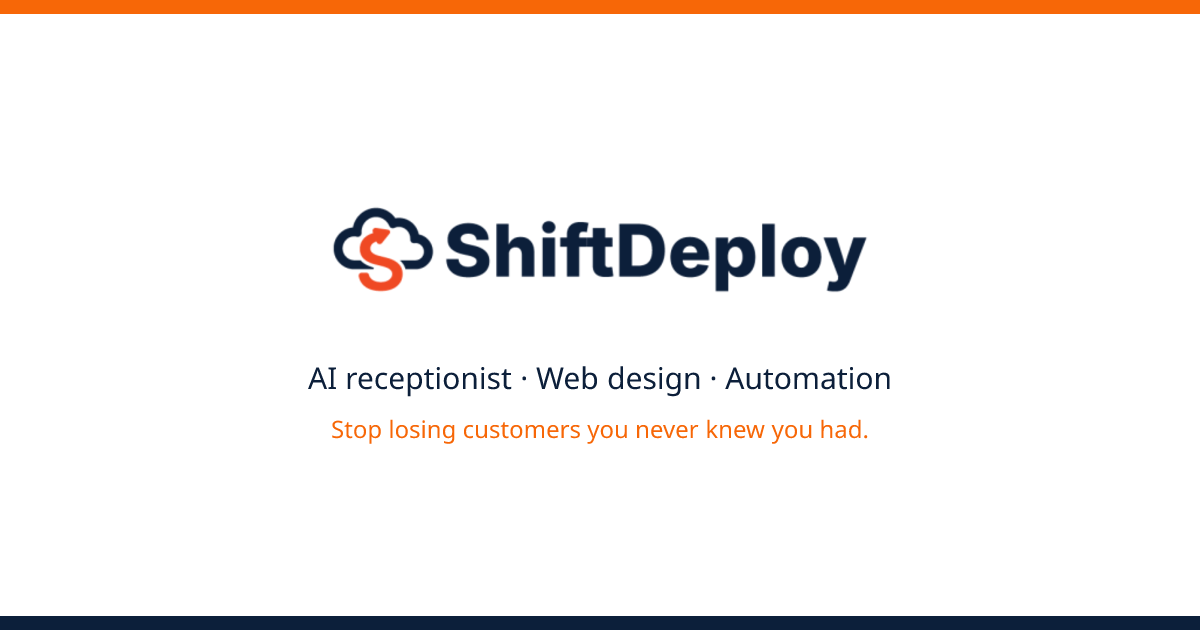
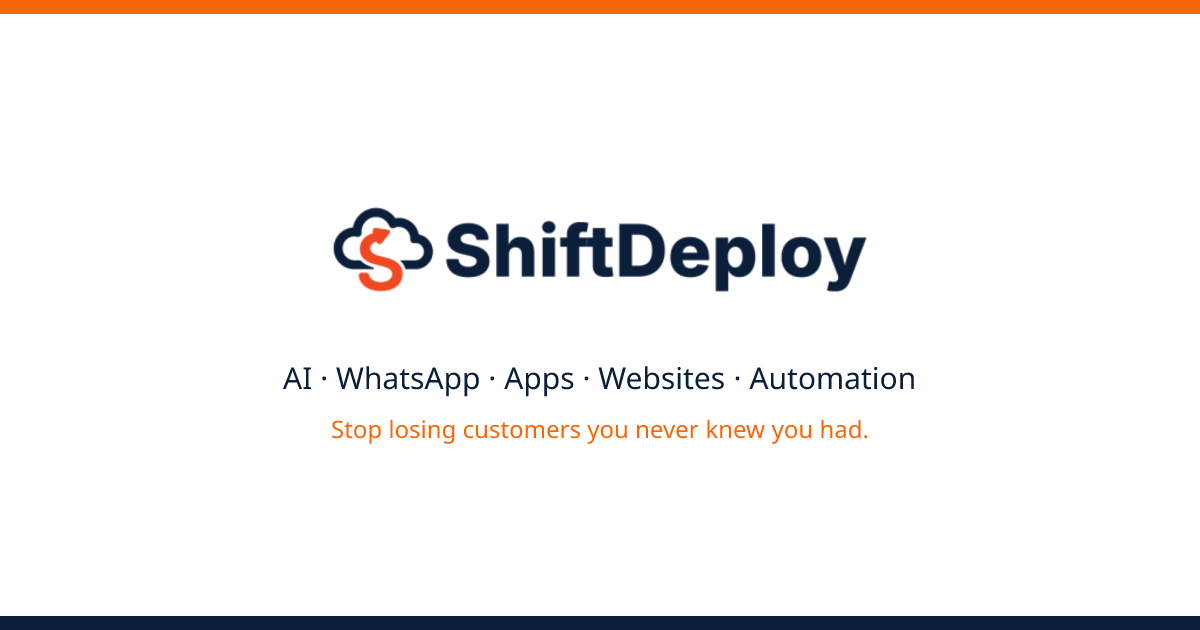
Lead with problems not tools, add WhatsApp and apps, and a visible FAQ
Hero copy now talks only about the pain and the result. Services add
WhatsApp automation and mobile apps. A 14-question FAQ answers what UK
owners ask, stays fully visible and ships FAQPage schema. Small orange
labels now meet WCAG AA contrast, and CTAs to the same page share a name.

Changed region(s): [[0.2467, 0.573, 0.7708, 0.6333]]

diff --git a/src/Pages/LandingPage/landingComps/HomeFaq.jsx b/src/Pages/LandingPage/landingComps/HomeFaq.jsx
@@ -1,0 +1,103 @@
+import JsonLd from '../../../components/JsonLd';
+
+// Kept fully visible (no accordion) so search engines and AI assistants can read every answer.
+const faqs = [
+  {
+    q: 'What is an AI receptionist, and how does it work?',
+    a: 'An AI receptionist is a virtual receptionist that answers your business phone for you. It picks up every call, day or night, answers common questions, takes the caller’s details and books appointments, then sends you a text so you know what came in.',
+  },
+  {
+    q: 'Will my callers know they’re speaking to an AI?',
+    a: 'Yes, and they should. We set it up to say briefly that the caller is speaking to your assistant and that the call may be recorded. It speaks naturally and politely, and anything it can’t handle is passed to you as a message.',
+  },
+  {
+    q: 'Can I keep my existing business phone number?',
+    a: 'Yes. You keep your number. Calls you can’t answer are forwarded to the AI receptionist, so customers ring the same number they always have.',
+  },
+  {
+    q: 'Is an AI receptionist cheaper than a telephone answering service or a receptionist?',
+    a: 'Usually, yes. A full-time receptionist in the UK typically costs around £2,000 to £2,500 a month once National Insurance and pension are included. An AI receptionist costs a fraction of that and never takes a day off. We’ll give you an exact price in your quote.',
+  },
+  {
+    q: 'Is it UK GDPR compliant?',
+    a: 'We set everything up with UK GDPR in mind. Callers are told the call may be recorded, we only collect the details needed to help them, and we agree with you how long information is kept and how requests to delete it are handled.',
+  },
+  {
+    q: 'Can it book appointments straight into my diary?',
+    a: 'Yes. Bookings are added to your diary automatically and you get a text straight away. There’s nothing to write down or chase later.',
+  },
+  {
+    q: 'Can you automate WhatsApp messages for my business?',
+    a: 'Yes. We set up WhatsApp for your business so customers get instant replies, can book or ask questions at any hour, and receive appointment reminders automatically. Many of your customers already prefer WhatsApp to calling.',
+  },
+  {
+    q: 'Why isn’t my website getting enquiries?',
+    a: 'It’s usually one of three things: it loads slowly on a phone, people can’t find you on Google, or it isn’t clear what to do next. Our free website audit checks all three and tells you, in plain English, what to fix first.',
+  },
+  {
+    q: 'Do I need a new website, or can you fix the one I have?',
+    a: 'Often you don’t need a new one. Many websites only need to load faster, explain things more clearly and make it easier to call or book. If a rebuild really is the better option, we’ll tell you why.',
+  },
+  {
+    q: 'How can I get more Google reviews for my business?',
+    a: 'Ask at the right moment and make it quick. A QR code at your front desk lets happy customers leave a Google review in two taps, and anyone unhappy can tell you privately so you can put it right first.',
+  },
+  {
+    q: 'How much does it cost to work with ShiftDeploy?',
+    a: 'It depends on what fixes your problem, so every project starts with a free check. You then get a clear, fixed quote before any work begins. Review Your Doctor, our review software for clinics, starts from £49 a month.',
+  },
+  {
+    q: 'How long does it take?',
+    a: 'Simpler fixes, like call answering or WhatsApp replies, can often be live within days. A new website or app takes longer. You’ll get a clear timeline with your quote, before anything starts.',
+  },
+  {
+    q: 'Do you work with businesses across the UK?',
+    a: 'Yes. We work remotely with service businesses across the UK, from trades and clinics to salons and local firms, so it doesn’t matter where you’re based.',
+  },
+  {
+    q: 'What happens after the free check?',
+    a: 'We send you a plain-English summary of where you’re losing customers and the simplest way to fix it. There’s no obligation, and if we can’t help, we’ll say so.',
+  },
+];
+
+const faqSchema = {
+  '@context': 'https://schema.org',
+  '@type': 'FAQPage',
+  mainEntity: faqs.map(({ q, a }) => ({
+    '@type': 'Question',
+    name: q,
+    acceptedAnswer: { '@type': 'Answer', text: a },
+  })),
+};
+
+export default function HomeFaq() {
+  return (
+    <section id="faq" className="w-full bg-white py-16 sm:py-24 scroll-mt-20">
+      <JsonLd data={faqSchema} />
+      <div className="max-w-7xl 2xl:max-w-[80%] mx-auto px-4 sm:px-6 lg:px-8">
+        <div className="max-w-4xl mx-auto text-center mb-12 sm:mb-16">
+          <p className="text-sm sm:text-base font-semibold text-orange-700 mb-4">Questions we get asked</p>
+          <h2 className="text-3xl sm:text-5xl font-bold leading-[1.1] text-primaryBlue text-balance">
+            Straight answers.
+            <span className="block text-primaryOrange">No sales talk.</span>
+          </h2>
+          <p className="text-lg sm:text-xl mt-6 leading-relaxed text-gray-700">
+            What business owners ask us most about call answering, WhatsApp, websites and
+            reviews.
+          </p>
+        </div>
+
+        <dl className="grid gap-6 md:grid-cols-2">
+          {faqs.map(({ q, a }) => (
+            <div key={q} className="rounded-2xl border border-gray-200 bg-gray-50 p-6 sm:p-8">
+              <dt>
+                <h3 className="text-lg sm:text-xl font-bold text-primaryBlue">{q}</h3>
+              </dt>
+              <dd className="mt-3 text-gray-700 sm:text-lg leading-relaxed">{a}</dd>
+            </div>
+          ))}
+        </dl>
+      </div>
+    </section>
+  );
+}

diff --git a/src/Pages/LandingPage/landingComps/ShiftProtocol.jsx b/src/Pages/LandingPage/landingComps/ShiftProtocol.jsx
@@ -4,11 +4,11 @@ import Link from 'next/link';
 const steps = [
   {
     title: 'Free check',
-    body: 'Tell us about your business. We look at your calls, website and admin to find where work is slipping away.',
+    body: 'Tell us about your business. We look at your calls, messages, website and admin to find where work is slipping away.',
   },
   {
     title: 'A clear plan and quote',
-    body: 'You get a plain-English plan: what to fix first, what can wait, and what it costs. No pressure.',
+    body: 'The simplest fix for your problem, whether that’s AI, WhatsApp, an app or a website, with a clear price. No pressure.',
   },
   {
     title: 'We fix it',
@@ -22,23 +22,23 @@ const steps = [
 
 const ShiftProtocol = () => {
   return (
-    <section id="the-shift-protocol" className="bg-white scroll-mt-20">
+    <section id="the-shift-protocol" className="bg-gray-50 scroll-mt-20">
       <div className="max-w-7xl 2xl:max-w-[80%] mx-auto px-4 sm:px-6 lg:px-8 py-16 sm:py-24">
         <div className="max-w-4xl mx-auto text-center mb-12 sm:mb-16">
-          <p className="text-sm sm:text-base font-semibold text-primaryOrange mb-4">How it works</p>
+          <p className="text-sm sm:text-base font-semibold text-orange-700 mb-4">How it works</p>
           <h2 className="text-3xl sm:text-5xl font-bold leading-[1.1] text-primaryBlue text-balance">
             Four simple steps.
             <span className="block text-primaryOrange">No jargon, no surprises.</span>
           </h2>
           <p className="text-lg sm:text-xl mt-6 leading-relaxed text-gray-700">
-            Whether it’s AI call answering, a new website or business automation, every
-            project starts the same way.
+            Whether the answer is AI, WhatsApp, an app or a website, every project starts
+            the same way: with your problem.
           </p>
         </div>
 
         <ol className="grid gap-6 sm:grid-cols-2 lg:grid-cols-4">
           {steps.map(({ title, body }, i) => (
-            <li key={title} className="rounded-2xl border border-gray-200 bg-gray-50 p-6 sm:p-8">
+            <li key={title} className="rounded-2xl border border-gray-200 bg-white p-6 sm:p-8">
               <span className="flex size-10 items-center justify-center rounded-full bg-primaryBlue text-white font-bold">
                 {i + 1}
               </span>
@@ -52,7 +52,7 @@ const ShiftProtocol = () => {
       <div className="bg-primaryBlue text-white px-4 py-14 sm:py-20 text-center">
         <h2 className="text-3xl sm:text-4xl font-bold text-balance">Ready to stop losing work?</h2>
         <p className="mt-4 text-lg sm:text-xl text-white/85 max-w-2xl mx-auto">
-          Get a free check of your calls, website and admin. We’ll show you where the
+          Get a free check of your calls, messages, website and admin. We’ll show you where the
           biggest leaks are and the simplest way to fix them.
         </p>
         <div className="mt-8 flex flex-col sm:flex-row justify-center gap-3 sm:gap-4">

diff --git a/src/Pages/LandingPage/landingComps/InsideShiftDeploy.jsx b/src/Pages/LandingPage/landingComps/InsideShiftDeploy.jsx
@@ -1,5 +1,5 @@
 import Link from 'next/link';
-import { ArrowRight, PhoneCall, LayoutTemplate, Gauge, MousePointerClick, ShieldCheck, Workflow } from 'lucide-react';
+import { ArrowRight, PhoneCall, MessageCircle, Smartphone, LayoutTemplate, Gauge, MousePointerClick, ShieldCheck, Workflow } from 'lucide-react';
 
 const services = [
   {
@@ -7,6 +7,20 @@ const services = [
     title: 'AI receptionist & call answering',
     body: 'A virtual receptionist that answers every call and books it in, even when you’re closed.',
     href: '/digital-receptionist',
+  },
+  {
+    icon: MessageCircle,
+    title: 'WhatsApp & chat automation',
+    body: 'Instant replies, bookings and reminders on WhatsApp, where your customers already are.',
+    href: '/ContactUs',
+    cta: 'Ask us about it',
+  },
+  {
+    icon: Smartphone,
+    title: 'Mobile & web apps',
+    body: 'Booking, ordering or customer apps built around how your business actually runs.',
+    href: '/ContactUs',
+    cta: 'Ask us about it',
   },
   {
     icon: LayoutTemplate,
@@ -46,18 +60,18 @@ const InsideShiftDeploy = () => {
     <section id="inside-shiftdeploy" className="py-16 sm:py-24 text-textColor bg-white scroll-mt-20">
       <div className="max-w-7xl 2xl:max-w-[80%] mx-auto px-4 sm:px-6 lg:px-8">
         <div className="max-w-4xl mx-auto text-center mb-12 sm:mb-16">
-          <p className="text-sm sm:text-base font-semibold text-primaryOrange mb-4">Our services</p>
+          <p className="text-sm sm:text-base font-semibold text-orange-700 mb-4">Our services</p>
           <h2 className="text-3xl sm:text-5xl font-bold leading-[1.1] text-primaryBlue text-balance">
             Everything that wins you more work.
             <span className="block text-primaryOrange">One team to sort it.</span>
           </h2>
           <p className="text-lg sm:text-xl mt-6 leading-relaxed text-gray-700">
-            Web design, SEO, AI call answering and automation for service businesses. No
-            juggling different suppliers.
+            We don’t start with a website. We start with your problem, then pick the fix that
+            works: AI, WhatsApp, an app, a website or automation.
           </p>
         </div>
 
-        <ul className="grid gap-6 sm:grid-cols-2 lg:grid-cols-3">
+        <ul className="grid gap-6 sm:grid-cols-2 lg:grid-cols-4">
           {services.map(({ icon: Icon, title, body, href, cta = 'Find out more' }) => (
             <li key={title}>
               <Link

diff --git a/app/page.jsx b/app/page.jsx
@@ -4,21 +4,21 @@ import Landing from '../src/Pages/LandingPage/Landing';
 import JsonLd from '../src/components/JsonLd';
 
 export const metadata = {
-  title: 'Losing Customers? AI Receptionist & Web Design | ShiftDeploy',
+  title: 'Losing Customers? AI, Apps & Automation | ShiftDeploy',
   description:
-    'AI receptionist and telephone answering, web design, local SEO and business automation for UK service businesses. Stop missing calls and get more enquiries.',
+    'Losing customers to missed calls, slow replies or admin? We fix it with the right tool: AI receptionist, WhatsApp automation, an app or a website.',
   keywords: [
-    'AI receptionist UK', 'telephone answering service', 'virtual receptionist', 'call answering service for small business', 'missed call text back',
+    'AI receptionist UK', 'telephone answering service', 'WhatsApp automation for business', 'mobile app development UK', 'virtual receptionist', 'call answering service for small business', 'missed call text back',
     'small business web design UK', 'local SEO', 'website speed optimisation',
     'business automation UK', 'get more Google reviews', 'ShiftDeploy',
   ],
   alternates: { canonical: 'https://shiftdeploy.com' },
   openGraph: {
-    title: 'Losing Customers? AI Receptionist & Web Design | ShiftDeploy',
+    title: 'Losing Customers? AI, Apps & Automation | ShiftDeploy',
     description:
-      'Stop losing customers you never knew you had. AI call answering, websites that bring enquiries and business automation.',
+      'Stop losing customers you never knew you had. We fix it with the right tool: AI call answering, WhatsApp automation, an app or a website.',
     url: 'https://shiftdeploy.com',
-    images: [{ url: '/og-image.png', width: 1200, height: 630, alt: 'ShiftDeploy logo - AI receptionist, web design and automation' }],
+    images: [{ url: '/og-image.png', width: 1200, height: 630, alt: 'ShiftDeploy logo - AI, apps and automation that stop you losing customers' }],
   },
 };
 

diff --git a/src/Pages/LandingPage/landingComps/AdminAutomation.jsx b/src/Pages/LandingPage/landingComps/AdminAutomation.jsx
@@ -10,7 +10,7 @@ const jobs = [
   {
     icon: MessageSquareReply,
     title: 'Enquiry follow-ups',
-    body: 'Every enquiry gets a reply and a nudge later, even when you’re flat out.',
+    body: 'Every enquiry gets a reply on WhatsApp, text or email, and a nudge later.',
   },
   {
     icon: ReceiptPoundSterling,
@@ -24,7 +24,7 @@ export default function AdminAutomation() {
     <section id="admin" className="w-full bg-white py-16 sm:py-24 border-y border-gray-100 scroll-mt-20">
       <div className="max-w-7xl 2xl:max-w-[80%] mx-auto px-4 sm:px-6 lg:px-8">
         <div className="max-w-4xl mx-auto text-center mb-12 sm:mb-16">
-          <p className="text-sm sm:text-base font-semibold text-primaryOrange mb-4">
+          <p className="text-sm sm:text-base font-semibold text-orange-700 mb-4">
             Business automation
           </p>
           <h2 className="text-3xl sm:text-5xl font-bold leading-[1.1] text-primaryBlue text-balance">
@@ -55,7 +55,7 @@ export default function AdminAutomation() {
             prefetch={false}
             className="bg-primaryOrange hover:bg-toOrange border-2 border-primaryOrange text-white text-lg px-7 py-4 rounded-xl font-bold inline-flex items-center justify-center gap-2 shadow-lg w-full sm:w-auto"
           >
-            Tell us what eats your time <ArrowRight size={20} aria-hidden="true" />
+            Get your free check <ArrowRight size={20} aria-hidden="true" />
           </Link>
         </div>
       </div>

diff --git a/app/llms.txt/route.js b/app/llms.txt/route.js
@@ -17,9 +17,10 @@ export async function GET() {
   const lines = [
     '# ShiftDeploy',
     '',
-    '> ShiftDeploy helps UK service businesses stop losing work: an AI receptionist',
-    '> and telephone answering service, web design and local SEO, website speed and',
-    '> conversion optimisation, and business automation. Free check, plain English.',
+    '> ShiftDeploy helps UK service businesses stop losing work. We start with the',
+    '> problem, then fix it with the right tool: an AI receptionist and telephone',
+    '> answering, WhatsApp automation, mobile and web apps, web design and local SEO,',
+    '> or business automation. Free check, plain English.',
     '',
     '## Services',
     '',
@@ -28,6 +29,8 @@ export async function GET() {
     '- [Website speed optimisation (ShiftSpeed)](https://shiftdeploy.com/services/shiftspeed): faster pages on mobile, Core Web Vitals',
     '- [Conversion rate optimisation (ShiftConvert)](https://shiftdeploy.com/services/shiftconvert): more calls and bookings from existing visitors',
     '- [Website maintenance and support (ShiftFlow)](https://shiftdeploy.com/services/shiftflow): ongoing updates, security and fixes',
+    '- WhatsApp and chat automation: instant replies, bookings and reminders on WhatsApp',
+    '- Mobile and web apps: booking, ordering and customer apps',
     '- Business automation: appointment reminders, enquiry follow-ups and invoice chasers',
     '',
     '## Products',

diff --git a/app/layout.jsx b/app/layout.jsx
@@ -21,7 +21,7 @@ export const metadata = {
     template: '%s | ShiftDeploy',
   },
   description:
-    'AI receptionist and telephone answering, web design, local SEO and business automation for UK service businesses. Stop missing calls and get more enquiries.',
+    'Losing customers to missed calls, slow replies or admin? ShiftDeploy fixes it with the right tool: AI receptionist, WhatsApp automation, apps or websites.',
   keywords: [
     'web agency',
     'performance web development',
@@ -117,7 +117,7 @@ const organizationSchema = {
   },
   image: 'https://shiftdeploy.com/og-image.png',
   description:
-    'ShiftDeploy helps UK service businesses stop losing work with an AI receptionist and telephone answering, web design and local SEO, website speed and conversion optimisation, and business automation.',
+    'ShiftDeploy helps UK service businesses stop losing work. We start with the problem and fix it with the right tool: an AI receptionist and telephone answering, WhatsApp automation, mobile and web apps, web design and local SEO, or business automation.',
   slogan: 'Stop losing customers you never knew you had.',
   email: 'contact@shiftdeploy.com',
   telephone: '+447311126710',
@@ -153,6 +153,8 @@ const organizationSchema = {
   knowsAbout: [
     'AI receptionist',
     'Telephone answering',
+    'WhatsApp automation',
+    'Mobile app development',
     'Web design',
     'Local SEO',
     'Core Web Vitals',

diff --git a/src/Pages/LandingPage/landingComps/Hero.jsx b/src/Pages/LandingPage/landingComps/Hero.jsx
@@ -8,7 +8,7 @@ export default function Hero() {
       <div className="w-full max-w-7xl 2xl:max-w-[80%] mx-auto px-4 sm:px-6 lg:px-8">
         <div className="grid lg:grid-cols-[1.4fr_1fr] gap-10 lg:gap-16 items-center">
           <div className="min-w-0">
-            <p className="text-sm sm:text-base font-semibold text-primaryOrange mb-4">
+            <p className="text-sm sm:text-base font-semibold text-orange-700 mb-4">
               For busy business owners
             </p>
             <h1 className="text-4xl sm:text-5xl xl:text-6xl font-bold leading-[1.1] text-primaryBlue text-balance">
@@ -16,8 +16,8 @@ export default function Hero() {
               <span className="block text-primaryOrange xl:whitespace-nowrap">you never knew you had.</span>
             </h1>
             <p className="text-lg sm:text-xl mt-6 max-w-xl leading-relaxed text-gray-700">
-              Call answering, websites and automation for service businesses. We find where
-              you’re losing work, fix it, and show you what came back.
+              Missed calls, slow replies, enquiries that go nowhere. We find where your business
+              is losing customers, fix it, and show you the extra work it brings in.
             </p>
             <nav aria-label="What we fix" className="mt-6 flex flex-wrap gap-2">
               {heroFixes.map(({ href, label }) => (

diff --git a/src/Pages/LandingPage/landingComps/MissionsCompleted.jsx b/src/Pages/LandingPage/landingComps/MissionsCompleted.jsx
@@ -37,7 +37,7 @@ const MissionsCompleted = () => {
     <section id="missions-completed" className="py-16 sm:py-24 bg-white text-primaryBlue scroll-mt-20">
       <div className="max-w-7xl 2xl:max-w-[80%] mx-auto px-4 sm:px-6 lg:px-8">
         <div className="max-w-4xl mx-auto text-center mb-12 sm:mb-16">
-          <p className="text-sm sm:text-base font-semibold text-primaryOrange mb-4">Work we’ve done</p>
+          <p className="text-sm sm:text-base font-semibold text-orange-700 mb-4">Work we’ve done</p>
           <h2 className="text-3xl sm:text-5xl font-bold leading-[1.1] text-primaryBlue text-balance">
             Real businesses.
             <span className="block text-primaryOrange">Real work, delivered.</span>
@@ -60,7 +60,7 @@ const MissionsCompleted = () => {
                   <CloudinaryImage src={image} alt={imageAlt} className="size-full object-contain" loading="lazy" />
                 </div>
                 <div className="flex flex-1 flex-col p-6 sm:p-8">
-                  <p className="text-sm font-semibold text-primaryOrange">
+                  <p className="text-sm font-semibold text-orange-700">
                     {client} · {service}
                   </p>
                   <h3 className="mt-2 text-xl font-bold text-primaryBlue">{title}</h3>

diff --git a/src/Pages/LandingPage/landingComps/DigitalReceptionist.jsx b/src/Pages/LandingPage/landingComps/DigitalReceptionist.jsx
@@ -29,7 +29,7 @@ const DigitalReceptionist = ({
     <section id="calls" className="w-full bg-white py-16 sm:py-24 border-y border-gray-100 scroll-mt-20">
       <div className="max-w-7xl 2xl:max-w-[80%] mx-auto px-4 sm:px-6 lg:px-8">
         <div className="max-w-3xl mx-auto text-center mb-12 sm:mb-16">
-          <p className="text-sm sm:text-base font-semibold text-primaryOrange mb-4">AI receptionist &amp; call answering</p>
+          <p className="text-sm sm:text-base font-semibold text-orange-700 mb-4">AI receptionist &amp; call answering</p>
           <h2 className="text-3xl sm:text-5xl font-bold leading-[1.1] text-primaryBlue text-balance">
             Can’t get to the phone?
             <span className="block text-primaryOrange">It still gets answered.</span>

diff --git a/src/Pages/LandingPage/landingComps/DeployToolkit.jsx b/src/Pages/LandingPage/landingComps/DeployToolkit.jsx
@@ -60,7 +60,7 @@ const DeployToolkit = () => {
     <section id="deploy-toolkit" className="w-full bg-gray-50 py-16 sm:py-24 text-textColor scroll-mt-20">
       <div className="max-w-7xl 2xl:max-w-[80%] mx-auto px-4 sm:px-6 lg:px-8 grid gap-12 lg:grid-cols-2 lg:gap-16 items-center">
         <div>
-          <p className="text-sm sm:text-base font-semibold text-primaryOrange mb-4">Free website audit</p>
+          <p className="text-sm sm:text-base font-semibold text-orange-700 mb-4">Free website audit</p>
           <h2 className="text-3xl sm:text-5xl font-bold leading-[1.1] text-primaryBlue text-balance">
             Is your website losing you work?
             <span className="block text-primaryOrange">Find out for free.</span>

diff --git a/src/Pages/LandingPage/landingComps/ReviewYourDoctor.jsx b/src/Pages/LandingPage/landingComps/ReviewYourDoctor.jsx
@@ -75,7 +75,7 @@ const ReviewYourDoctor = () => {
     <section className="w-full overflow-hidden bg-gray-50 py-16 sm:py-24">
       <div className="mx-auto max-w-7xl 2xl:max-w-[80%] px-4 sm:px-6 lg:px-8">
         <div className="max-w-4xl mx-auto text-center mb-12 sm:mb-16">
-          <p className="text-sm sm:text-base font-semibold text-primaryOrange mb-4">Get more Google reviews</p>
+          <p className="text-sm sm:text-base font-semibold text-orange-700 mb-4">Get more Google reviews</p>
           <h2 className="text-3xl sm:text-5xl font-bold leading-[1.1] text-primaryBlue text-balance">
             Happy customers rarely leave reviews.
             <span className="block text-primaryOrange">Now they will.</span>
